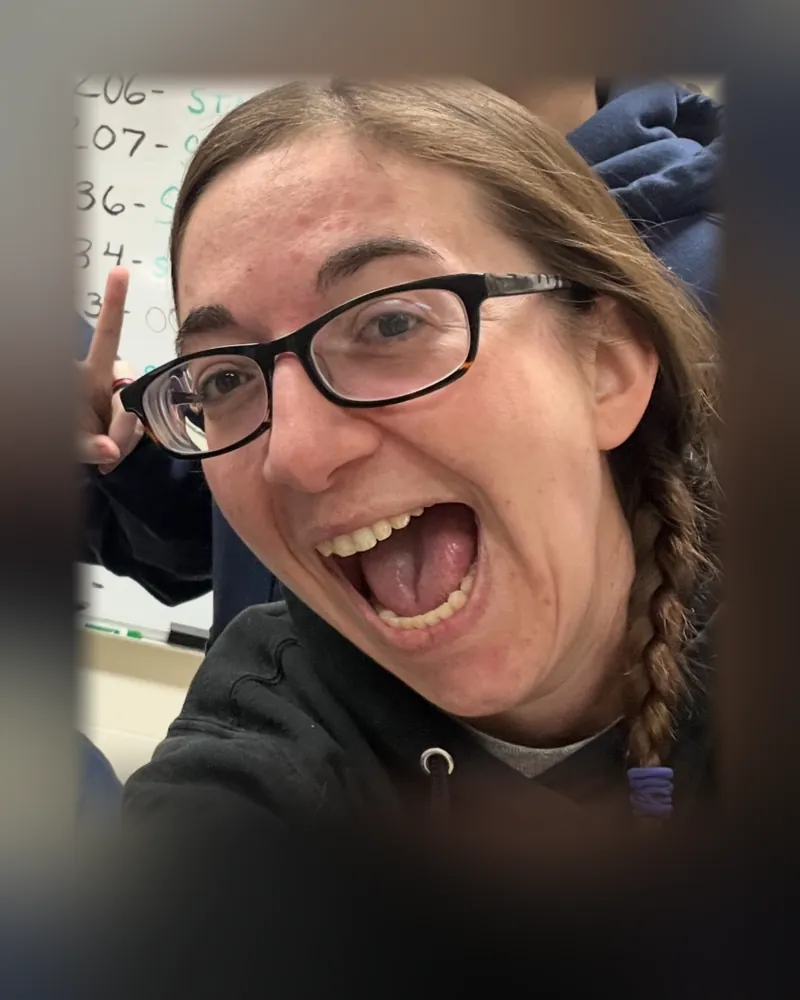
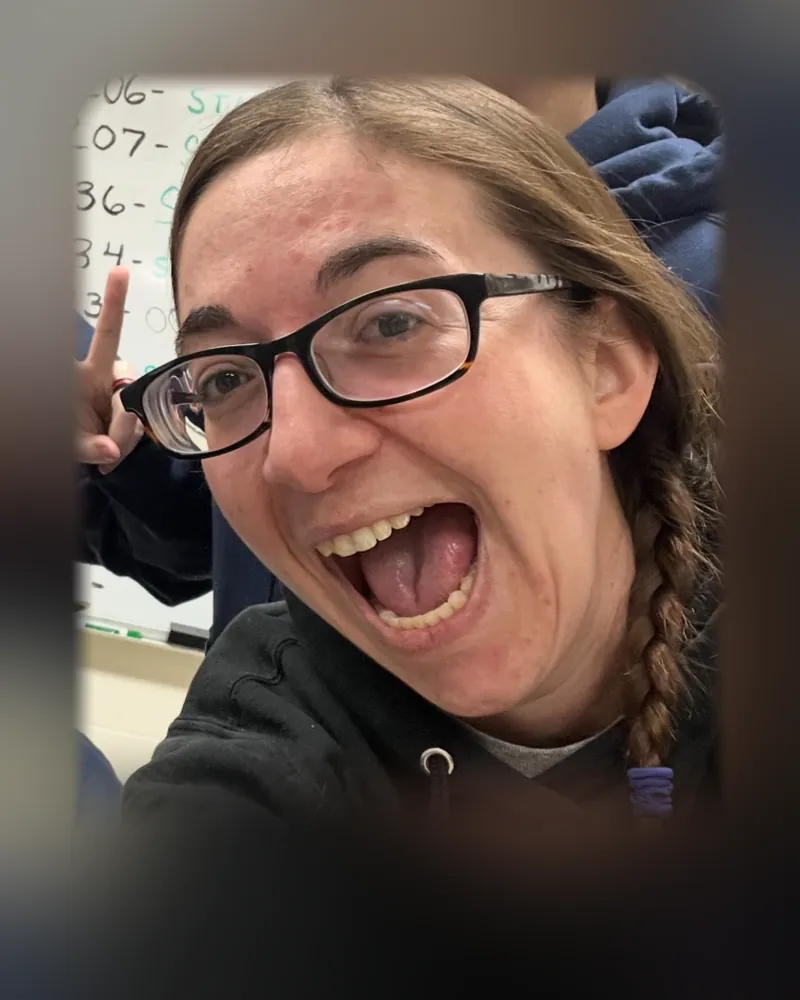
Round the top corners of the board photos

diff --git a/index.html b/index.html
@@ -303,9 +303,9 @@
     <div class="eyebrow">Leadership</div>
     <h2 class="section-heading">Board of <em>Directors</em></h2>
     <div class="board-grid">
-      <div class="board-card board-card--photo reveal"><div class="board-photo"><img src="images/board-libby.webp?v=7" alt="Libby Benjamin" width="800" height="1000" loading="lazy"></div><div class="board-info"><div class="board-name">Libby Benjamin</div><div class="board-role">President</div></div></div>
-      <div class="board-card board-card--photo reveal"><div class="board-photo"><img src="images/board-dan.webp?v=7" alt="Dan Rypkowski" width="800" height="1000" loading="lazy"></div><div class="board-info"><div class="board-name">Dan Rypkowski</div><div class="board-role">Vice President</div></div></div>
-      <div class="board-card board-card--photo reveal"><div class="board-photo"><img src="images/board-kenneth.webp?v=7" alt="Kenneth Gibson" width="800" height="1000" loading="lazy"></div><div class="board-info"><div class="board-name">Kenneth Gibson</div><div class="board-role">Secretary / Treasurer</div></div></div>
+      <div class="board-card board-card--photo reveal"><div class="board-photo"><img src="images/board-libby.webp?v=8" alt="Libby Benjamin" width="800" height="1000" loading="lazy"></div><div class="board-info"><div class="board-name">Libby Benjamin</div><div class="board-role">President</div></div></div>
+      <div class="board-card board-card--photo reveal"><div class="board-photo"><img src="images/board-dan.webp?v=8" alt="Dan Rypkowski" width="800" height="1000" loading="lazy"></div><div class="board-info"><div class="board-name">Dan Rypkowski</div><div class="board-role">Vice President</div></div></div>
+      <div class="board-card board-card--photo reveal"><div class="board-photo"><img src="images/board-kenneth.webp?v=8" alt="Kenneth Gibson" width="800" height="1000" loading="lazy"></div><div class="board-info"><div class="board-name">Kenneth Gibson</div><div class="board-role">Secretary / Treasurer</div></div></div>
     </div>
   </div>
 </section>
